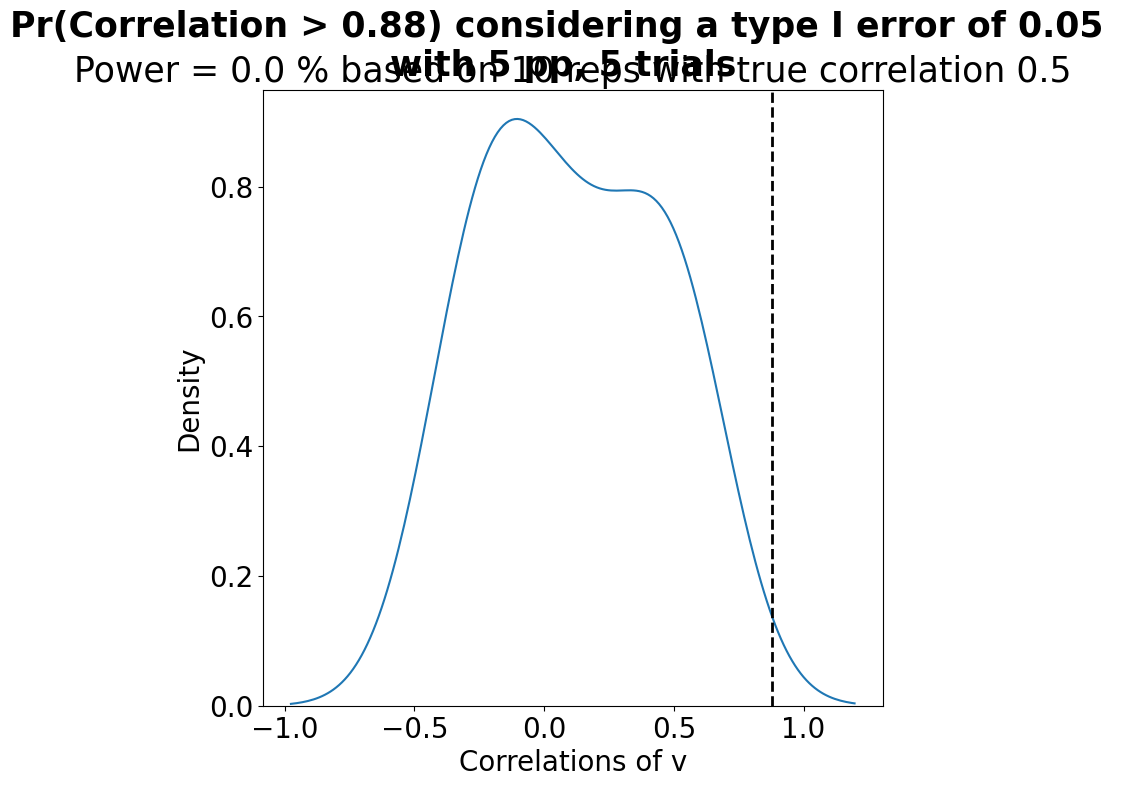
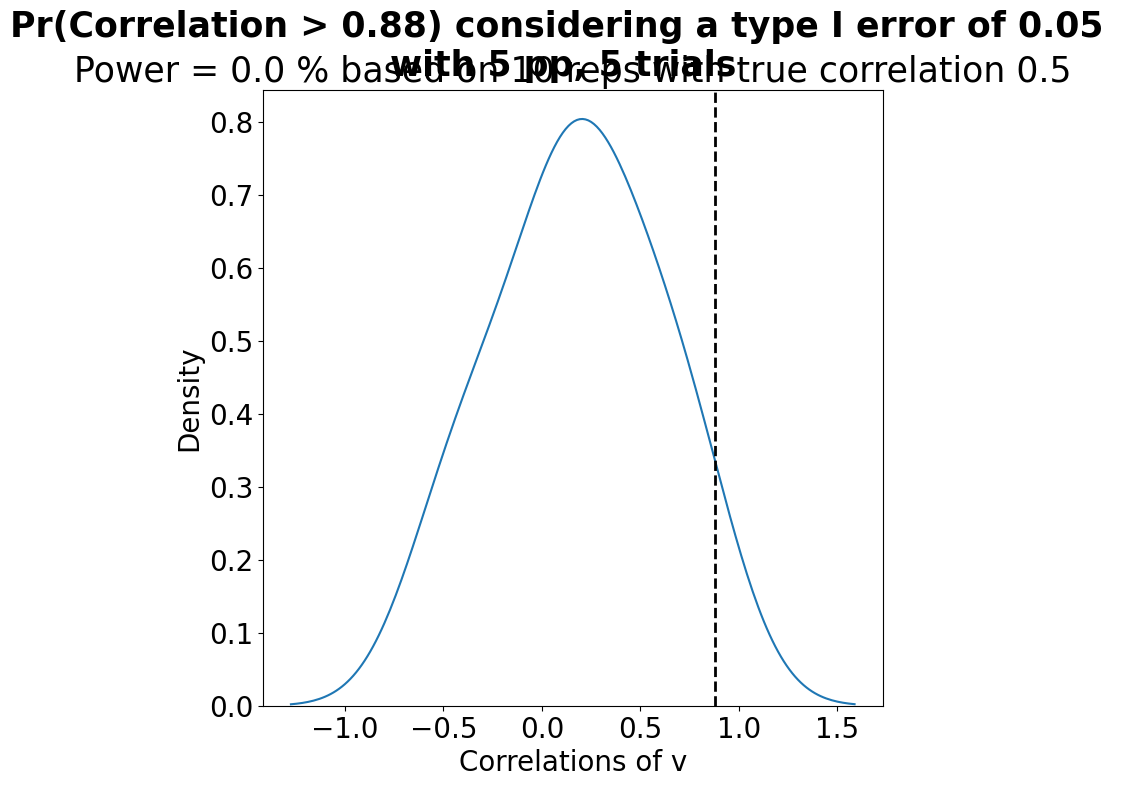
HPC

diff --git a/PowerAnalysis.py b/PowerAnalysis.py
@@ -336,7 +336,7 @@ if __name__ == '__main__':
 
     criterion = sys.argv[1:]
     if not criterion:
-        criterion = ["GD_DDM"]
+        criterion = [""]
     assert len(criterion) == 1
     criterion = criterion[0]
     # criterion = criterion[0]
@@ -456,7 +456,7 @@ if __name__ == '__main__':
             
                 plt.tight_layout() 
                 p_n = ssms.config.model_config[DDM_id]['params'][par_ind]
-                fig, axes = plt.subplots(nrows = 1, ncols = 1,figsize=(8, 8))
+                fig, axes = plt.subplots(nrows = 1, ncols = 1,figsize=(10,10))
                 # sns.set_theme(style = "white",font_scale=1.4)
                 sns.kdeplot(output["Esti_r"].dropna(axis = 0),label = "Correlation", ax = axes)
                 fig.suptitle("Pr(Correlation > {}) considering a type I error of {} \nwith {} pp, {} trials".format(np.round(tau,2), typeIerror, npp, ntrials), fontweight = 'bold',fontsize = 25)
